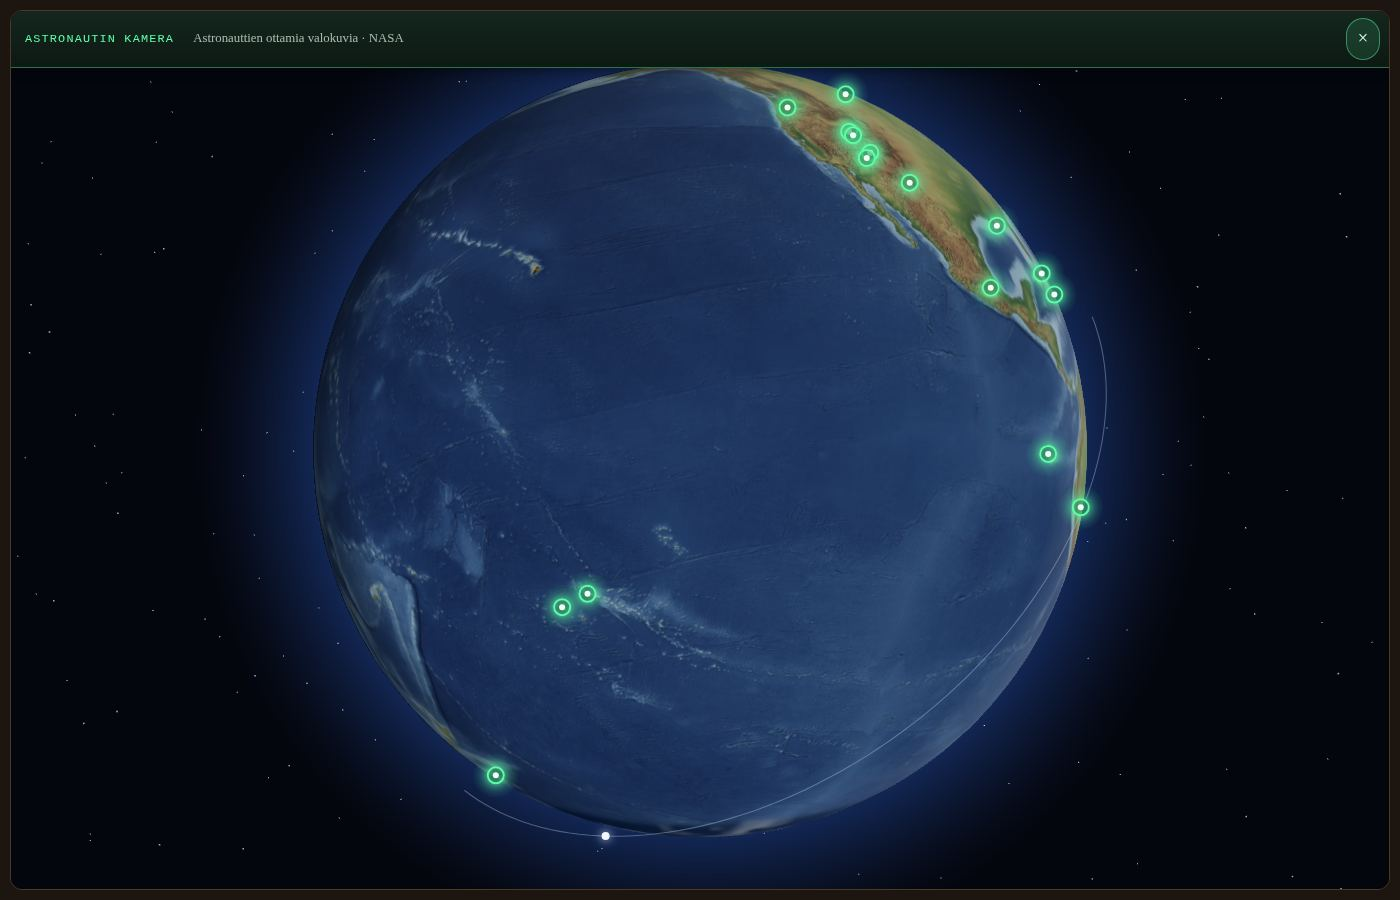
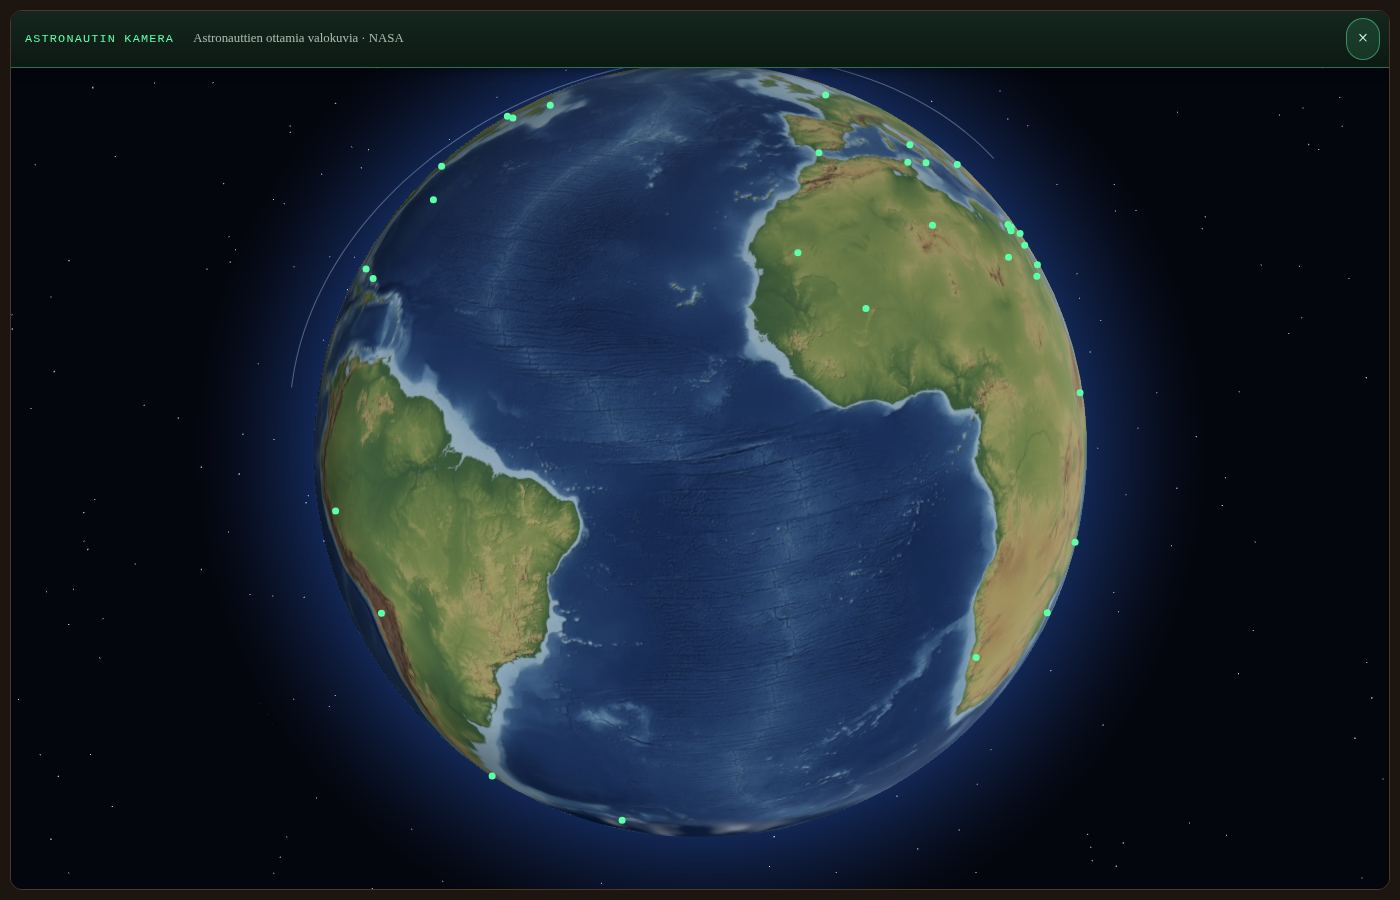
Kohdepisteet pelkiksi vihreiksi pisteiksi: ei rengasta, ei hohtoa
OMISTAJA 16.9.2026, sanatarkasti: *"Muutamilla nuo hehkuvat pisteet
pelkeiksi vihreäksi pisteeksi ilman ympyrää ja pisteen ympärillä."*

Merkissä oli kolme kerrosta: 46 px:n sädekehä, 18 px:n hehkuva rengas
(border + box-shadow + tumma tausta) ja 6 px:n valkoinen ydin omalla
hohdollaan. Avausnäkymässä lähekkäiset kohteet sulautuivat yhdeksi
läiskäksi. Nyt merkki on YKSI tasainen vihreä piste: 7 px, sama sävy
#5dffa8, ei reunaa, ei box-shadowia, ei suodatinta. Nimilappu nousi
16 px:stä 11 px:iin, kun rengasta ei enää ole. Erillisiä hover- tai
valittu-tiloja ei ollut eikä lisätty.

OSUMA-ALUE EI PIENENTYNYT. Napautus lasketaan yhä pallon pinnasta
(js/pallolauta/lauta.js lahinLinssimerkki, 44 px:n säde) ja merkin
pointer-events on none; pisteen rinnalla on läpinäkyvä 36 px:n
osuma-ala, jonka vartio mittaa.

Vartiot lukevat maalatun tuloksen: halkaisija ≤ 9 px, tausta
rgb(93, 255, 168), box-shadow none, reunan leveys 0, renkaita ja
sädekehiä 0 kpl, osuma-ala ≥ 32 px. Vastakoe palauttaa renkaan ja
hohdon hetkeksi ja vaatii mittarin näkevän ne.

savuke-astro-pallo 24/24 (1400 ja 390), savuke-satelliittilinssi
34/34 (tyopoyta), node --test tests/satelliitti*.test.mjs +
pallolinssit 93/93.

Claude-Session: https://claude.ai/code/session_01TehnTdSkC74DnzEqcXkynA

diff --git a/css/satelliitti.css b/css/satelliitti.css
@@ -1,17 +1,32 @@
 /*
- * SATELLIITTILINSSI — hohtavat havaintopisteet pallolla, linssin oma
- * yläpalkki ja havaintokortin galleria.
+ * SATELLIITTILINSSI — havaintopisteet pallolla, linssin oma yläpalkki
+ * ja havaintokortin galleria.
  *
  * Tyylitiedosto ladataan ajossa (js/linssit/satelliitti.js
  * lataaSatelliittiTyyli), kuten muillakin kelluvilla pinnoilla.
  *
- * HEHKU ILMAN PULSSIA (omistajan tilaus 12.9.2026: *"Uudet kohteet
- * näkyisivät hohtavina vihreinä pisteinä pallolla"* — ja linssin
- * vaatimus, ettei hehku sykkisi jatkuvasti). Sykkivä elementti pakottaa
- * pallon piirtymään uudelleen joka kehyksellä (js/linssit/kerros.js
- * haivyta: 15 fps vastaan 60 fps), joten tässä on kolme PAIKALLAAN
- * pysyvää kerrosta — sädekehä, rengas ja ydin — ja liike on vain
- * kertaluonteinen ilmestyminen. Liikkeenvähennys nollaa senkin.
+ * PELKKÄ VIHREÄ PISTE (omistaja 16.9.2026, sanatarkasti: *"Muutamilla
+ * nuo hehkuvat pisteet pelkeiksi vihreäksi pisteeksi ilman ympyrää ja
+ * pisteen ympärillä."*).
+ *
+ * Aiemmin merkki oli kolme kerrosta: 46 px:n sädekehä, 18 px:n
+ * hehkuva rengas ja 6 px:n valkoinen ydin. Avaruusnäkymässä pisteitä
+ * on kerralla yli kolmekymmentä koko pallon alalla, ja kolme kerrosta
+ * teki niistä rypäleitä — kaksi lähekkäistä kohdetta sulautui yhdeksi
+ * hehkuvaksi läiskäksi. Nyt merkki on YKSI tasainen vihreä piste (7
+ * px, sama sävy #5dffa8) ilman rengasta ja ilman `box-shadow`-hohtoa.
+ *
+ * OSUMA-ALUE EI PIENENTYNYT. Napautus lasketaan pallon pinnasta
+ * (js/pallolauta/lauta.js lahinLinssimerkki, 44 px:n säde) eikä
+ * elementistä, ja merkin oma `pointer-events` on yhä `none`. Pisteen
+ * rinnalla on silti LÄPINÄKYVÄ osuma-ala (.satelliitti-osuma, 36 px),
+ * jotta merkin ruutuala pysyy sormen kokoisena myös silmämääräisesti
+ * ja vartio voi mitata sen (tools/savukkeet/savuke-astro-pallo.mjs).
+ *
+ * EI JATKUVAA LIIKETTÄ. Sykkivä elementti pakottaisi pallon
+ * piirtymään uudelleen joka kehyksellä (js/linssit/kerros.js haivyta:
+ * 15 fps vastaan 60 fps), joten liike on vain kertaluonteinen
+ * ilmestyminen. Liikkeenvähennys nollaa senkin.
  */
 
 .satelliitti-piste {
@@ -23,11 +38,14 @@
      pallolaudan merkeillä. */
   pointer-events: none;
   --satelliitti-vihrea: #5dffa8;
-  --satelliitti-tumma: rgba(12, 40, 26, 0.75);
+  /* Pisteen halkaisija: 7 px on pieni mutta erottuu meren sinisestä
+     myös avausnäkymässä, jossa pallo on 330 px leveä. */
+  --satelliitti-pisteen-koko: 7px;
+  /* Läpinäkyvä osuma-ala sormen mitassa (ks. tiedoston alku). */
+  --satelliitti-osuman-koko: 36px;
 }
 
-.satelliitti-hehku,
-.satelliitti-rengas,
+.satelliitti-osuma,
 .satelliitti-ydin {
   position: absolute;
   left: 50%;
@@ -36,35 +54,31 @@
   border-radius: 50%;
 }
 
-/* Sädekehä: pehmeä, matala peittävyys — erottuu kartasta mutta ei peitä. */
-.satelliitti-hehku {
-  width: 46px;
-  height: 46px;
-  background: radial-gradient(circle,
-    rgba(93, 255, 168, 0.42) 0%,
-    rgba(93, 255, 168, 0.18) 42%,
-    rgba(93, 255, 168, 0) 72%);
+/*
+ * OSUMA-ALA ON LÄPINÄKYVÄ eikä piirrä mitään: ei taustaa, ei reunaa,
+ * ei varjoa. Se on merkin ruutuala, ei sen ulkoasu.
+ */
+.satelliitti-osuma {
+  width: var(--satelliitti-osuman-koko);
+  height: var(--satelliitti-osuman-koko);
+  background: transparent;
 }
 
-.satelliitti-rengas {
-  width: 18px;
-  height: 18px;
-  border: 2px solid var(--satelliitti-vihrea);
-  box-shadow: 0 0 8px rgba(93, 255, 168, 0.85), inset 0 0 4px rgba(93, 255, 168, 0.6);
-  background: rgba(10, 34, 22, 0.35);
-}
-
+/*
+ * PELKKÄ PISTE. Ei rengasta, ei `box-shadow`-hohtoa — omistajan
+ * tilaus 16.9.2026. Väri on sama vihreä kuin ennen.
+ */
 .satelliitti-ydin {
-  width: 6px;
-  height: 6px;
-  background: #eafff3;
-  box-shadow: 0 0 6px rgba(93, 255, 168, 0.95);
+  width: var(--satelliitti-pisteen-koko);
+  height: var(--satelliitti-pisteen-koko);
+  background: var(--satelliitti-vihrea);
 }
 
 .satelliitti-nimi {
   position: absolute;
   left: 50%;
-  top: 16px;
+  /* Rengas (18 px) on poissa, joten nimi nousee lähemmäs pistettä. */
+  top: 11px;
   transform: translateX(-50%);
   white-space: nowrap;
   font-family: var(--font-type, system-ui), system-ui, sans-serif;
@@ -87,8 +101,8 @@
  * (js/linssit/satelliitti-avaruus.js kirjoittaa luokan).
  *
  * OPACITY EIKÄ DISPLAY: lappu pysyy asettelussa, joten sytyttäminen ei
- * siirrä mitään, ja häivytys on mahdollinen. Piste itse (hehku, rengas,
- * ydin) näkyy koko ajan — vain nimi tulee myöhemmin.
+ * siirrä mitään, ja häivytys on mahdollinen. Piste itse näkyy koko
+ * ajan — vain nimi tulee myöhemmin.
  */
 /*
  * PIILOSSA ILMAN EHTOA — EI ENÄÄ `body.satelliitti-avaruus` EDELLÄ.

diff --git a/js/linssit/satelliitti.js b/js/linssit/satelliitti.js
@@ -414,12 +414,20 @@ function ulkolinkki(teksti, osoite) {
   return a;
 }
 
-/** Yhden merkin elementti: sädekehä, rengas, ydin ja nimi. */
+/**
+ * Yhden merkin elementti: LÄPINÄKYVÄ osuma-ala, vihreä piste ja nimi.
+ *
+ * OMISTAJA 16.9.2026, sanatarkasti: *"Muutamilla nuo hehkuvat pisteet
+ * pelkeiksi vihreäksi pisteeksi ilman ympyrää ja pisteen ympärillä."*
+ * Sädekehä (46 px) ja hehkuva rengas (18 px) ovat siis poissa; jäljellä
+ * on yksi tasainen piste (css/satelliitti.css .satelliitti-ydin).
+ * Osuma-ala ei piirrä mitään — se pitää merkin ruutualan sormen
+ * kokoisena, vaikka napautus lasketaankin pallon pinnasta.
+ */
 function merkkiElementti(kohde) {
   const el = html('div', 'satelliitti-piste');
   el.append(
-    html('span', 'satelliitti-hehku'),
-    html('span', 'satelliitti-rengas'),
+    html('span', 'satelliitti-osuma'),
     html('span', 'satelliitti-ydin'),
     html('span', 'satelliitti-nimi', kohde.nimi),
   );

diff --git a/docs/raportit/viesti-fable-astro-pallo-20260916.md b/docs/raportit/viesti-fable-astro-pallo-20260916.md
@@ -1,6 +1,6 @@
 # Avaruusvaiheen pallo: ISS radallaan, aurinko sivulta, kylläisyys alas
 
-*Opus-työagentti Fablelle 16.9.2026. Haara
+*Opus-työagentti Fablelle 16.9.2026 (päivitetty samana päivänä omistajan pistetilauksen jälkeen). Haara
 `claude/bold-ride-vow4ki-astro-pallo`, pohja origin/main (78e60489,
 v1917). Ei PR:ää, ei versionostoa, ei Raamattu-muutoksia. Alue oli
 AVARUUSVAIHEEN PALLO — valokuvanäkymään ja yläpalkkiin ei koskettu
@@ -25,15 +25,19 @@ AVARUUSVAIHEEN PALLO — valokuvanäkymään ja yläpalkkiin ei koskettu
    olemassa ja se on 8192 × 4096 (ei 8192 × 2048). Se purkautuu 128
    Mt:n RGBA-puskuriksi, joten puhelin saa 4k:n. Valinta on kahden
    vakion ja yhden puhtaan funktion takana. Luku 4.
-5. **Vartio** `tools/savukkeet/savuke-astro-pallo.mjs`: 19/19 läpi
-   työpöydällä (1400 × 900) ja 20/20 puhelimella (390 × 844),
-   vastakokeineen. Luku 5.
+5. **Kohdepisteet ovat nyt PELKKIÄ vihreitä pisteitä** (omistajan
+   lisätilaus 16.9.2026): 7 px, sama sävy, ei rengasta eikä
+   hohtokehää. Osuma-ala säilyi. Luku 5.
+6. **Vartiot**: `tools/savukkeet/savuke-astro-pallo.mjs` 24/24 läpi
+   molemmilla näytöillä, `savuke-satelliittilinssi.mjs` 34/34, kaikki
+   vastakokeineen. Luku 6.
 
 Muutetut tiedostot: `js/linssit/satelliitti-avaruus.js` (uusi luku 2c
-ja reliefin valinta), `tests/satelliitti-avaruus.test.mjs` (kuusi uutta
-testiä), `tools/savukkeet/savuke-astro-pallo.mjs` (uusi).
-`js/linssit/satelliitti.js` säilyi koskemattomana — kaikki mahtui
-avaruusnäkymän omaan moduuliin.
+ja reliefin valinta), `css/satelliitti.css` ja
+`js/linssit/satelliitti.js` (pisteen ulkoasu, luku 5),
+`tests/satelliitti-avaruus.test.mjs` ja `tests/satelliitti.test.mjs`,
+`tools/savukkeet/savuke-astro-pallo.mjs` (uusi) ja
+`savuke-satelliittilinssi.mjs`.
 
 ## 1. ISS radallaan
 
@@ -174,13 +178,57 @@ eivät ole odotusaikaa avauksessa — ne ovat aika, jonka pallo on
 "vyöhykevärinen". Oikealla laitteella luvut ovat murto-osa näistä
 (kontissa piirto on ohjelmistolla).
 
-## 5. Vartio ja vastakokeet
+## 5. Kohdepisteet: pelkkä vihreä piste
+
+**Omistaja 16.9.2026, sanatarkasti:** *"Muutamilla nuo hehkuvat
+pisteet pelkeiksi vihreäksi pisteeksi ilman ympyrää ja pisteen
+ympärillä."*
+
+**Ennen** merkki oli kolme kerrosta: 46 px:n sädekehä
+(`radial-gradient`), 18 px:n rengas (`border: 2px` + `box-shadow` +
+tumma tausta) ja 6 px:n VALKOINEN ydin omalla hohdollaan. Kolme
+kerrosta teki avausnäkymässä rypäleitä — kaksi lähekkäistä kohdetta
+sulautui yhdeksi läiskäksi.
+
+**Nyt** merkissä on kaksi elementtiä:
+
+* `.satelliitti-osuma` — 36 px, **täysin läpinäkyvä**: ei taustaa, ei
+  reunaa, ei varjoa. Se on ruutuala, ei ulkoasu.
+* `.satelliitti-ydin` — **7 px, tasainen `#5dffa8`**, `border-radius:
+  50%`. Ei reunaa, ei `box-shadow`ia, ei suodatinta.
+
+Nimilappu nousi 16 px:stä 11 px:iin, koska rengasta ei enää ole.
+Mitään erillistä hover-, valittu- tai aktiivinen-tilaa ei ollut eikä
+lisätty: merkillä ei ole tiloja, ja `pointer-events` on yhä `none`.
+
+**Osuma-alue ei pienentynyt.** Napautus lasketaan pallon pinnasta
+(`js/pallolauta/lauta.js lahinLinssimerkki`, 44 px:n säde) eikä
+elementistä — tämä on ennallaan. Läpinäkyvä 36 px:n ala pitää merkin
+ruutualan sormen kokoisena myös DOMissa, ja vartio mittaa sen.
+
+**Mitattu maalatusta tuloksesta** (computed style, molemmat näytöt ja
+myös vanha linssisavuke):
+
+```
+halkaisija 7 px · tausta rgb(93, 255, 168) · box-shadow none
+reunan leveys 0 · suodatin none · merkin oma varjo none
+.satelliitti-rengas / .satelliitti-hehku ruudulla: 0 kpl
+osuma-ala 36 px, tausta rgba(0, 0, 0, 0)
+```
+
+**Vastakoe:** savuke lisää hetkeksi tyylin, joka palauttaa renkaan ja
+hohdon (`border: 2px`, `box-shadow`, 18 px). Mittari näkee sen
+(halkaisija 18, varjo `rgba(93,255,168,0.9) 0 0 8px`, reuna 2 px), ja
+tyylin poiston jälkeen piste on taas 7 px ilman varjoa. Ilman tätä
+koetta vihreä väri ei todistaisi mitään.
+
+## 6. Vartio ja vastakokeet
 
 `tools/savukkeet/savuke-astro-pallo.mjs` (1400 × 900 ja 390 × 844,
 NAKYMAT-muuttuja rajaa näytöt):
 
 ```
-19/19 läpi (tyopoyta)      20/20 läpi (puhelin)
+24/24 läpi (tyopoyta)      24/24 läpi (puhelin)
 ```
 
 Väitteet: ISS on DOMissa ja 8 px; ruutupaikka muuttuu 2 s:ssa; merkki
@@ -188,31 +236,39 @@ on etupuolella näkyvissä; kaari on piirretty ja takapuoli karsittu;
 varjon puoli tummuu ja valon puoli kirkastuu; keskusta ei muutu; varjo
 ei ulotu puoliväliin; varjon pudotus on tilauksen luokkaa;
 kylläisyys on mitattu alas; kohdepisteet näkyvät (myös varjon
-puolella) ja ovat klikattavissa; kalvo ei syö napautusta; reliefin
-tarkkuus on ruudun mukainen; molemmat tarkkuudet latautuvat.
+puolella) ja ovat klikattavissa; **piste on pelkkä vihreä piste ≤ 9 px
+ilman rengasta ja hohtoa ja osuma-ala ≥ 32 px**; kalvo ei syö
+napautusta; reliefin tarkkuus on ruudun mukainen; molemmat tarkkuudet
+latautuvat.
 
 Vastakokeet: (a) **varjostuskytkin pois** palauttaa samat pikselit
-(45,6 → 61,6 → 45,6), eli mittari osaa mennä punaiseksi; (b)
-**liikkeenvähennys** jäädyttää ISS:n 0,00 px:iin, eli liikemittari ei
-lue kohinaa.
+(63 → 85,6 → 63 viimeisimmässä ajossa), eli mittari osaa mennä
+punaiseksi; (b) **liikkeenvähennys** jäädyttää ISS:n 0,00 px:iin,
+eli liikemittari ei lue kohinaa; (c) **rengas ja hohto takaisin
+hetkeksi** — pisteen mittari näkee ne ja palaa vihreäksi vasta kun
+tyyli on poistettu.
 
 Lisäksi ajettu: `node --test tests/satelliitti*.test.mjs
 tests/pallolinssit.test.mjs tests/rules.test.mjs
-tests/dokumentit.test.mjs` → **430/430 läpi** (kuusi uutta testiä
-tässä), `node --check` kaikille muutetuille tiedostoille, ja
-`tools/savukkeet/savuke-satelliittilinssi.mjs NAKYMAT=tyopoyta` →
-**34/34 läpi** (linssin muu toiminta ei rikkoutunut).
+tests/dokumentit.test.mjs` → **430/430 läpi** ensimmäisellä kierroksella
+ja `tests/satelliitti*.test.mjs tests/pallolinssit.test.mjs` →
+**93/93** pistemuutoksen jälkeen, `node --check` kaikille muutetuille
+tiedostoille, ja `tools/savukkeet/savuke-satelliittilinssi.mjs
+NAKYMAT=tyopoyta` → **34/34 läpi** (pistettä koskeva väite kirjoitettu
+uusiksi: ei rengasta, ei hohtoa, osuma-ala ennallaan).
 
-Kuvat: `docs/raportit/kuvat/astro-pallo-1400-20260916.jpg` (65 kt) ja
+Kuvat (molemmat päivitetty pistemuutoksen jälkeen):
+`docs/raportit/kuvat/astro-pallo-1400-20260916.jpg` (79 kt) ja
 `docs/raportit/kuvat/astro-pallo-390-20260916.jpg` (76 kt).
-Työpöytäkuvassa ISS on pallon alareunalla omalla kaarellaan.
+Työpöytäkuvassa näkyvät sekä ratakaari että pelkät vihreät pisteet.
 
-## 6. Mitä EI tehty
+## 7. Mitä EI tehty
 
-* Valokuvanäkymään, yläpalkkiin (selite, X, hampurilainen,
-  pienoiskuvat) tai `css/satelliitti.css`:ään ei koskettu — kalvon
-  tyylit ovat inline-tyylejä linssin omassa moduulissa, jotta
-  rinnakkainen työ ei törmää.
+* Valokuvanäkymään ja yläpalkkiin (selite, X, hampurilainen,
+  pienoiskuvat) ei koskettu. Avaruuskalvon tyylit ovat inline-tyylejä
+  linssin omassa moduulissa, jotta rinnakkainen työ ei törmää;
+  `css/satelliitti.css`:ään tehtiin vain kohdepisteen oma sääntö
+  (luku 5), jota omistaja erikseen pyysi.
 * Ei versionostoa, ei muutoslokiriviä, ei PR:ää, ei Raamattu-muutosta.
 * `js/packs/linssi-topografia-kuva.js` on koneen kirjoittama
   (`tools/tee-reliefikartta.mjs`) eikä sitä muokattu käsin; jos 8k
